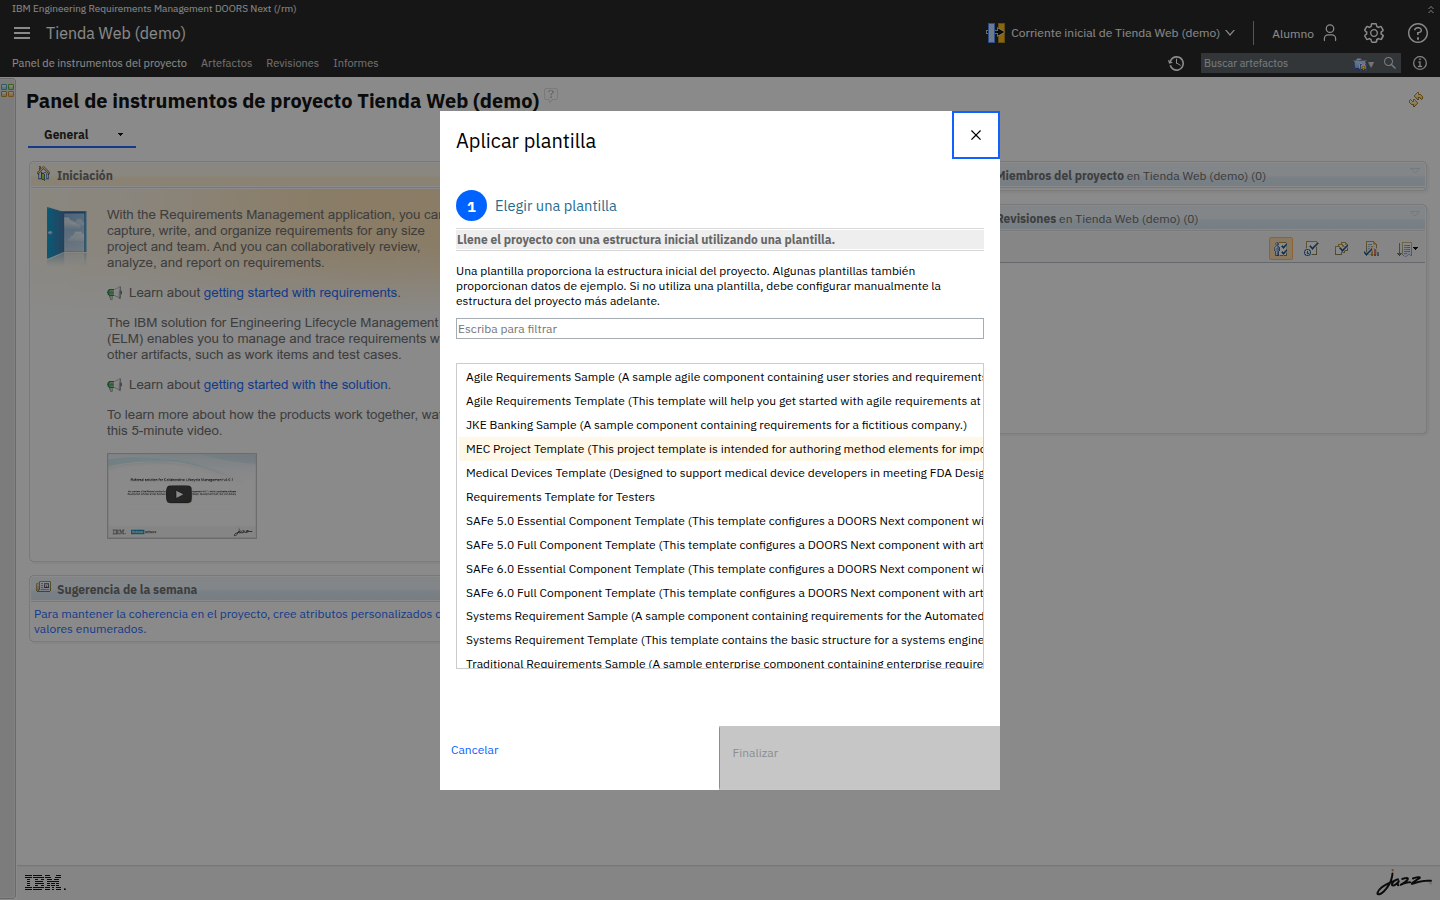
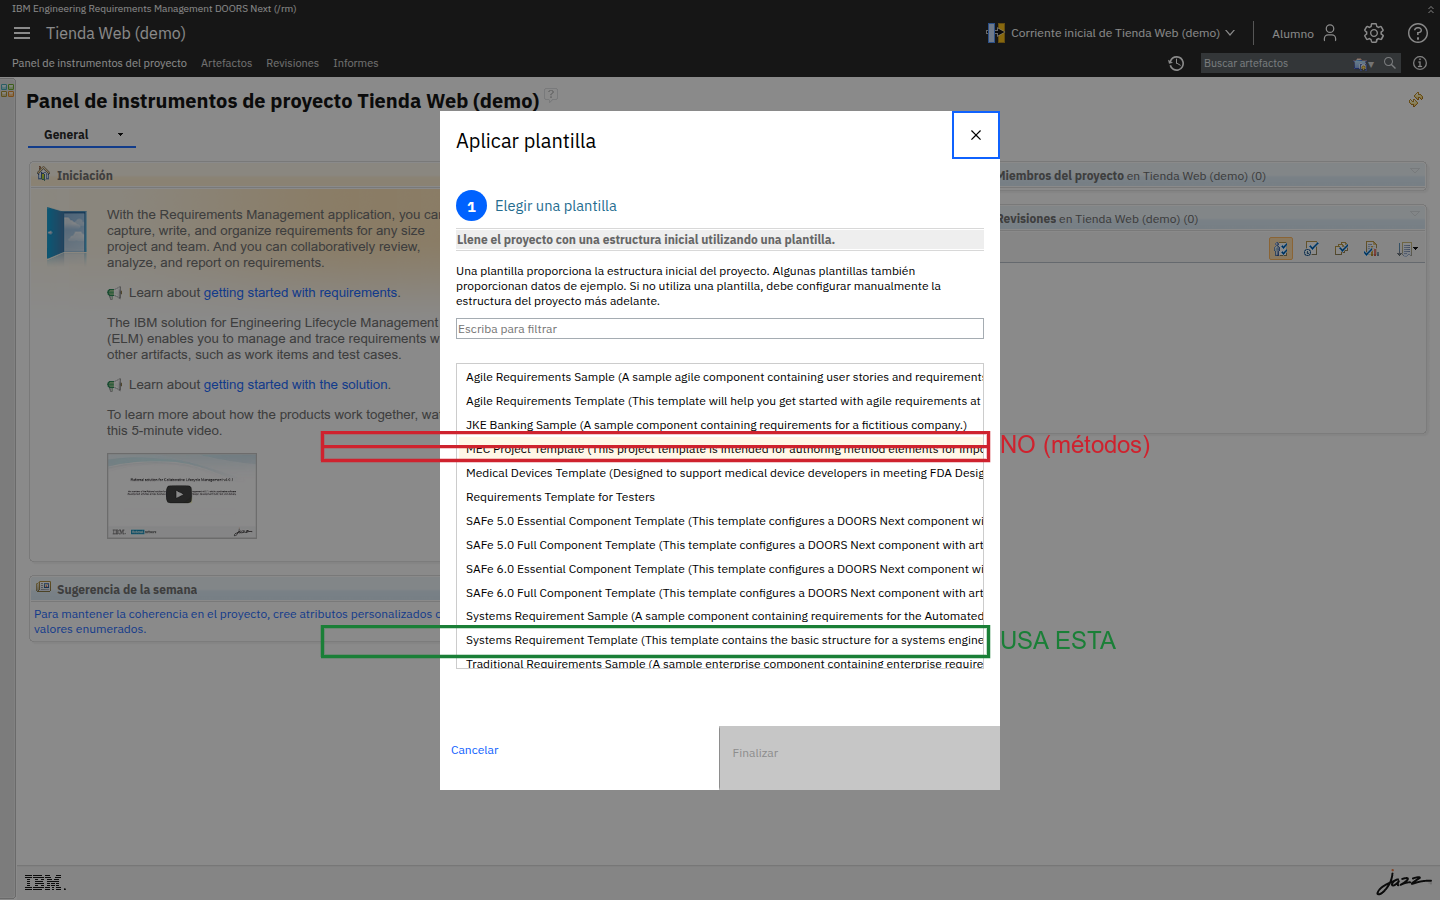
fix(M01): la captura mostraba MEC seleccionada; marcar la plantilla correcta
La imagen aplicar-plantilla.png tenía resaltada MEC Project Template (autoría
de métodos), lo que inducía a los alumnos a elegirla y quedarse sin tipo
Módulo. Se anota: MEC tachada en rojo y Systems Requirement Template marcada
en verde.

Changed region(s): [[0.2188, 0.6844, 0.7812, 0.7467], [0.2188, 0.4667, 0.7812, 0.5289]]

diff --git a/labs/M01-preparar-entorno/README.md b/labs/M01-preparar-entorno/README.md
@@ -114,7 +114,7 @@ elige **Aplicar una plantilla de proyecto**.
 
 Selecciona **Systems Requirement Template** y confirma con **Finalizar**:
 
-![Selección de plantilla de proyecto](../img/aplicar-plantilla.png)
+![Selección de plantilla: marca Systems Requirement Template (verde), no MEC (rojo)](../img/aplicar-plantilla.png)
 
 > [!IMPORTANT]
 > **Elige una plantilla de requisitos.** Recomendada: **Systems Requirement Template**
